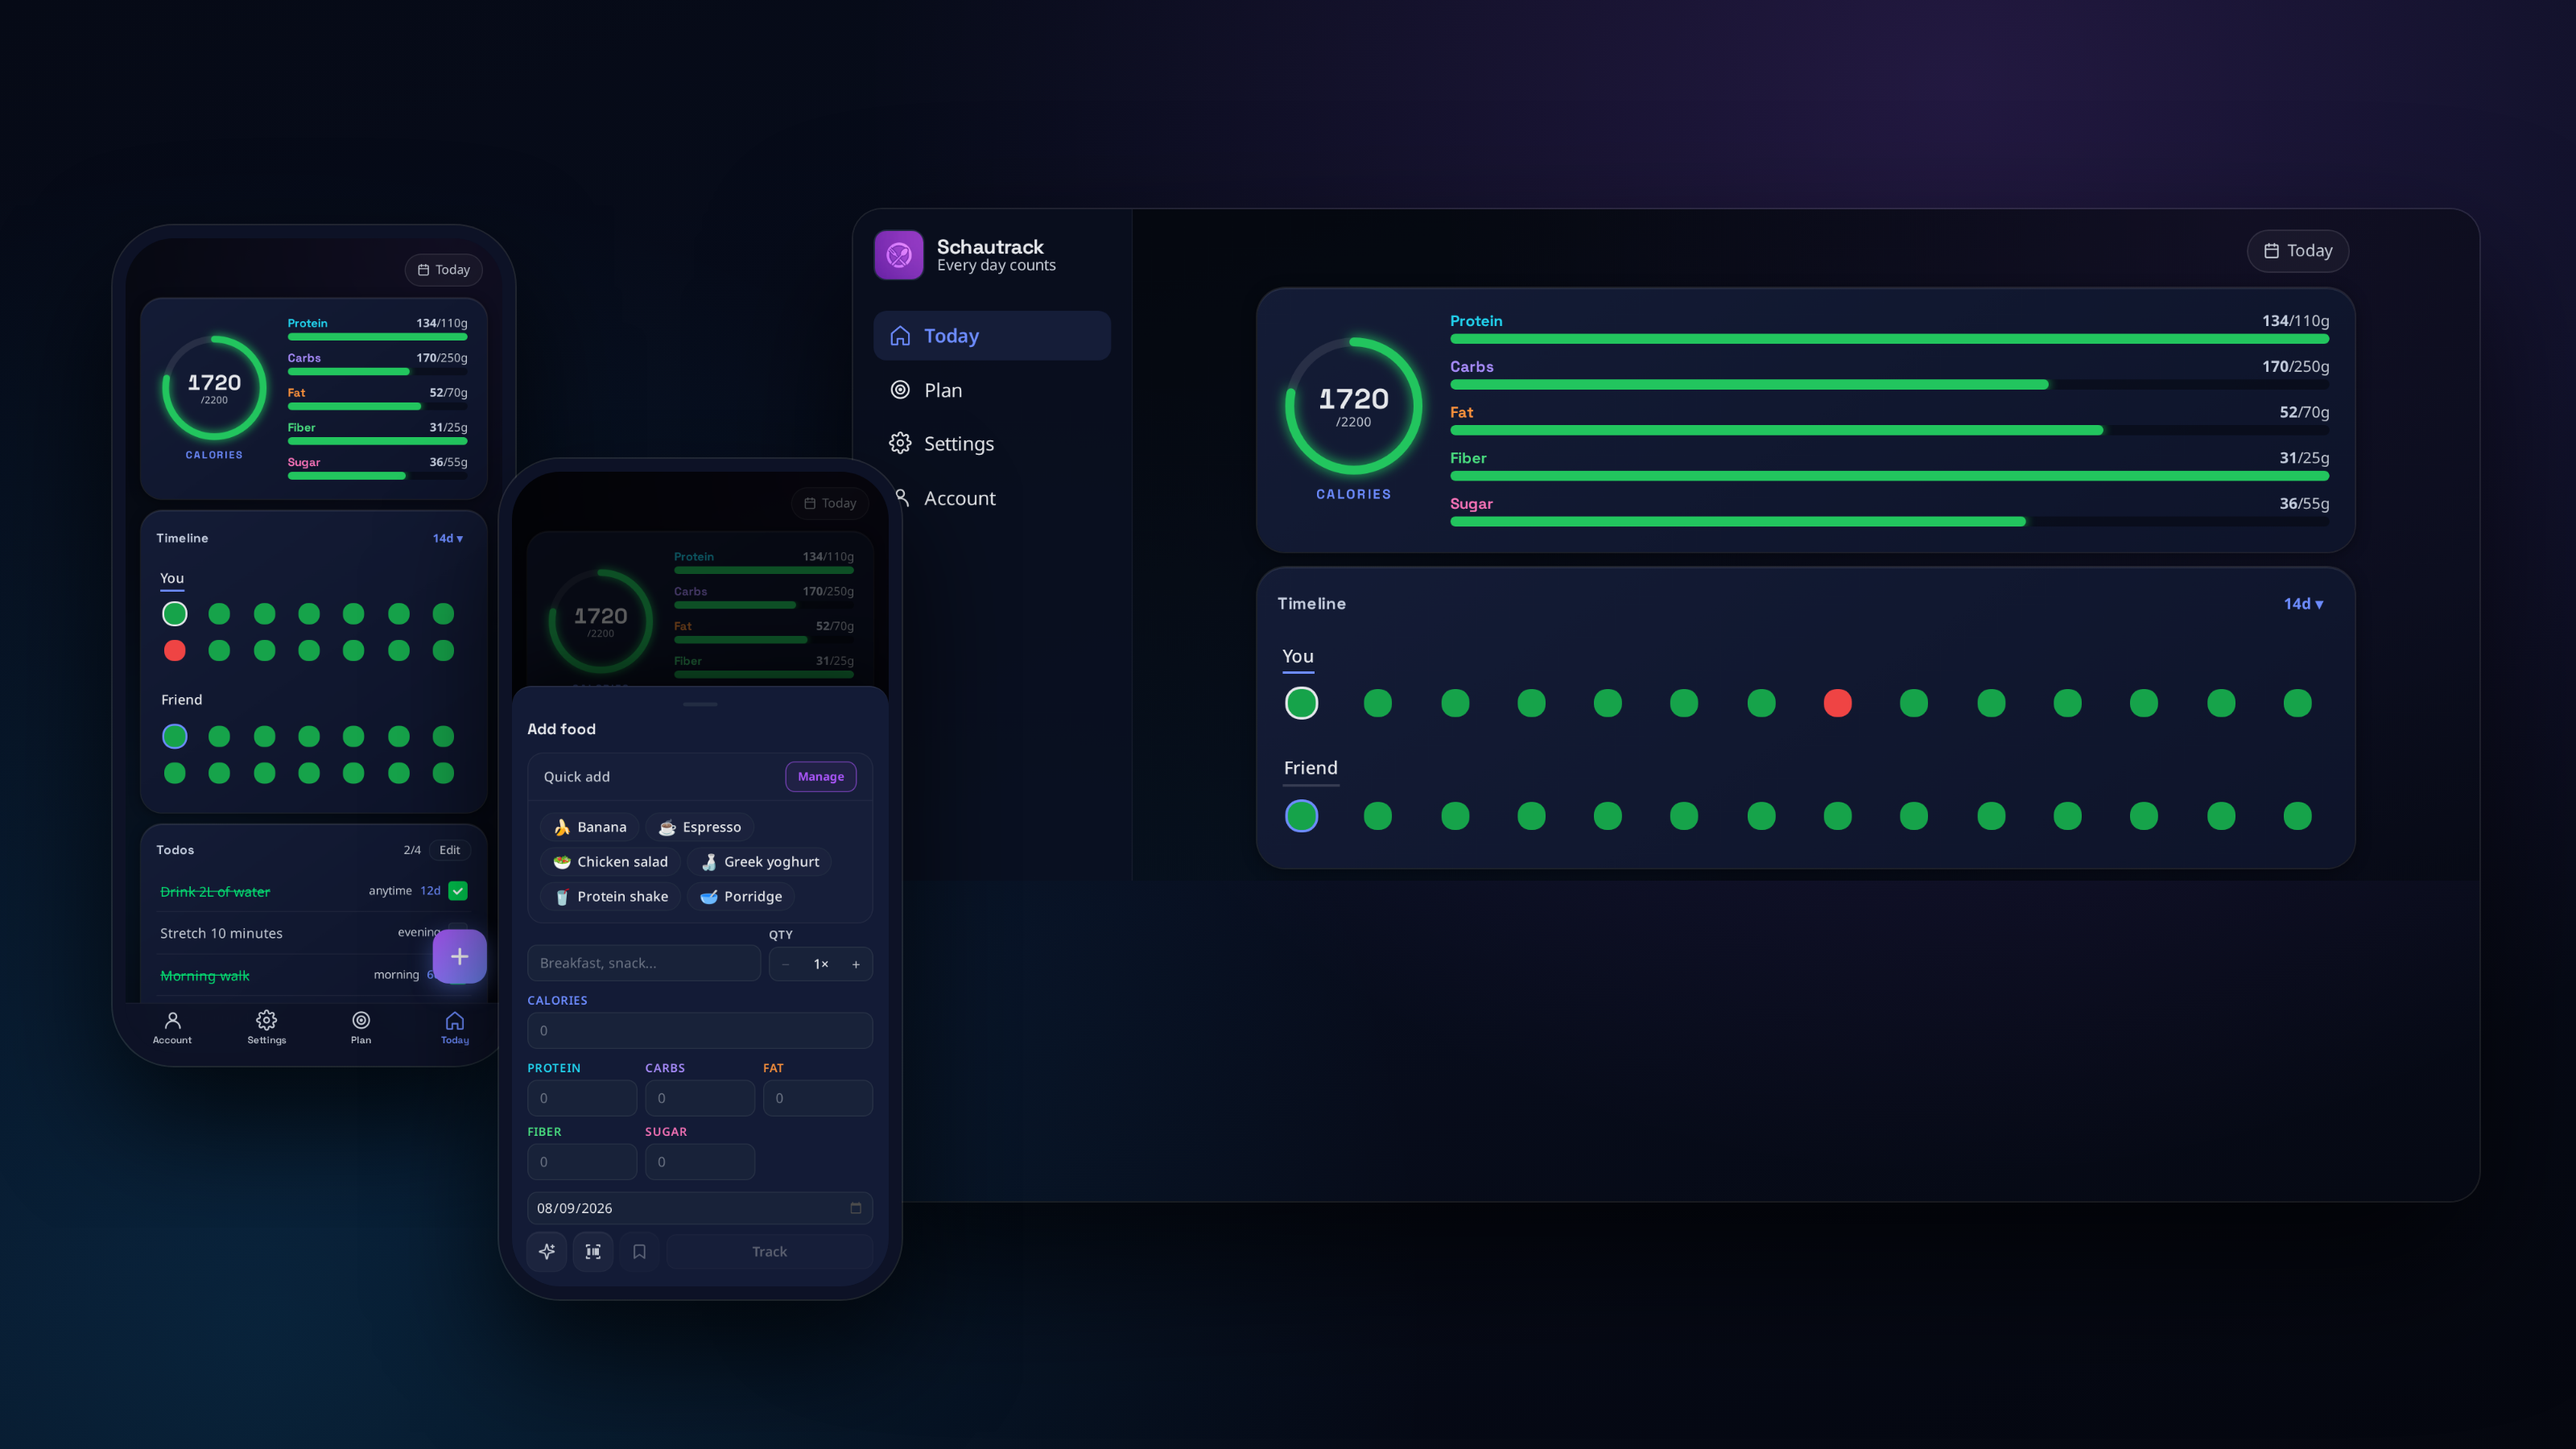
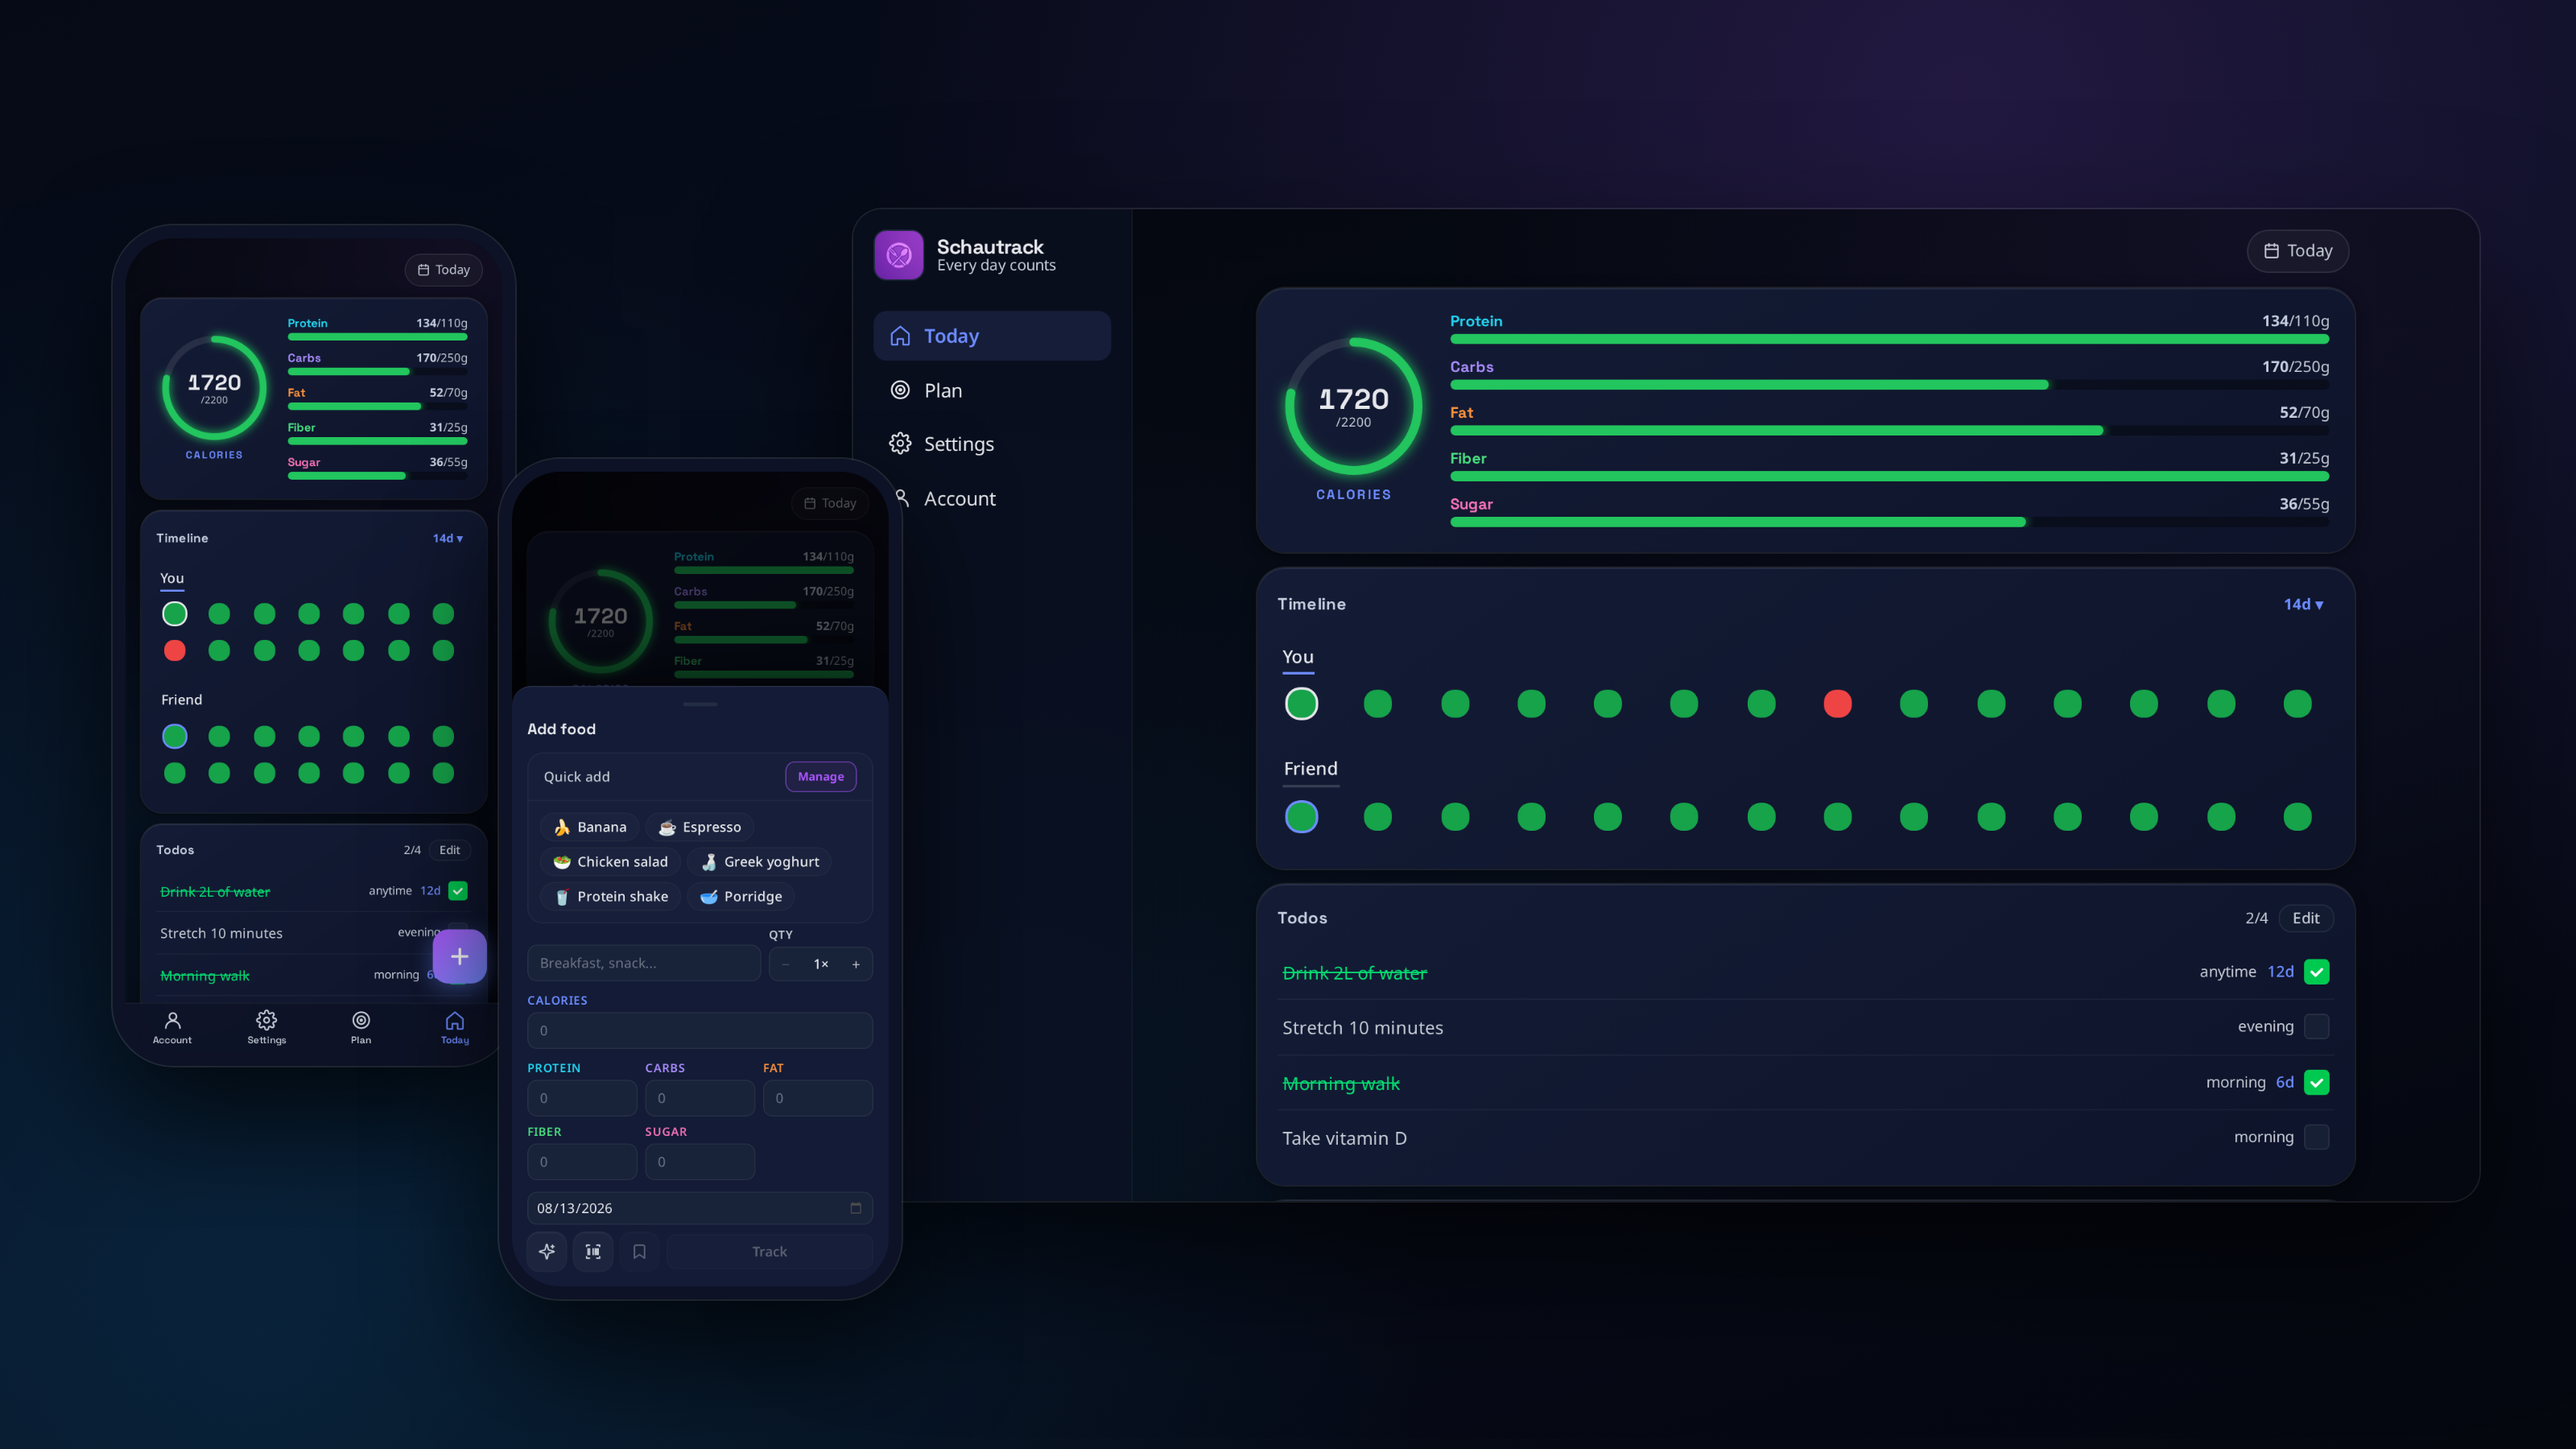
fix: fill desktop frame in README hero

Changed region(s): [[0.875, 0.6222, 0.9062, 0.8089], [0.5, 0.6533, 0.5625, 0.7156], [0.5, 0.7467, 0.5625, 0.8089]]

diff --git a/scripts/screenshots.ts b/scripts/screenshots.ts
@@ -4,8 +4,8 @@
  *   npm run screenshots          # stack + seed + capture (see package.json)
  *   npx tsx scripts/screenshots.ts   # capture only, against a running stack
  *
- * Writes docs/screenshots/*.png. dashboard.png is the README hero and is just
- * the desktop dashboard under its historical name, so the README keeps working.
+ * Writes docs/screenshots/*.png. hero.png is composed from the full desktop
+ * dashboard capture and two mobile viewport captures.
  */
 import { chromium, type Page, type Browser } from '@playwright/test';
 import { mkdirSync, readFileSync } from 'fs';
@@ -100,7 +100,7 @@ async function composeHero(browser: Browser) {
     .phone-front { left: 310px; top: 285px; }
   </style></head><body>
     <div class="stage">
-      <div class="desktop"><img src="${inline('dashboard.png')}"></div>
+      <div class="desktop"><img src="${inline('dashboard-desktop.png')}"></div>
       <div class="phone phone-back"><img src="${inline('dashboard-mobile.png')}"></div>
       <div class="phone phone-front"><img src="${inline('add-sheet-mobile.png')}"></div>
     </div>
@@ -125,8 +125,7 @@ async function composeHero(browser: Browser) {
 
   await login(desktop);
   await shot(desktop, 'dashboard-desktop', true);
-  // The README hero has always been docs/screenshots/dashboard.png. End it at
-  // the timeline so the frame closes on a whole card.
+  // Keep the historical standalone dashboard.png ending on a whole card.
   await shotThrough(desktop, 'dashboard', 'section:has-text("Timeline")');
 
   await desktop.goto(`${BASE}/plan`);
